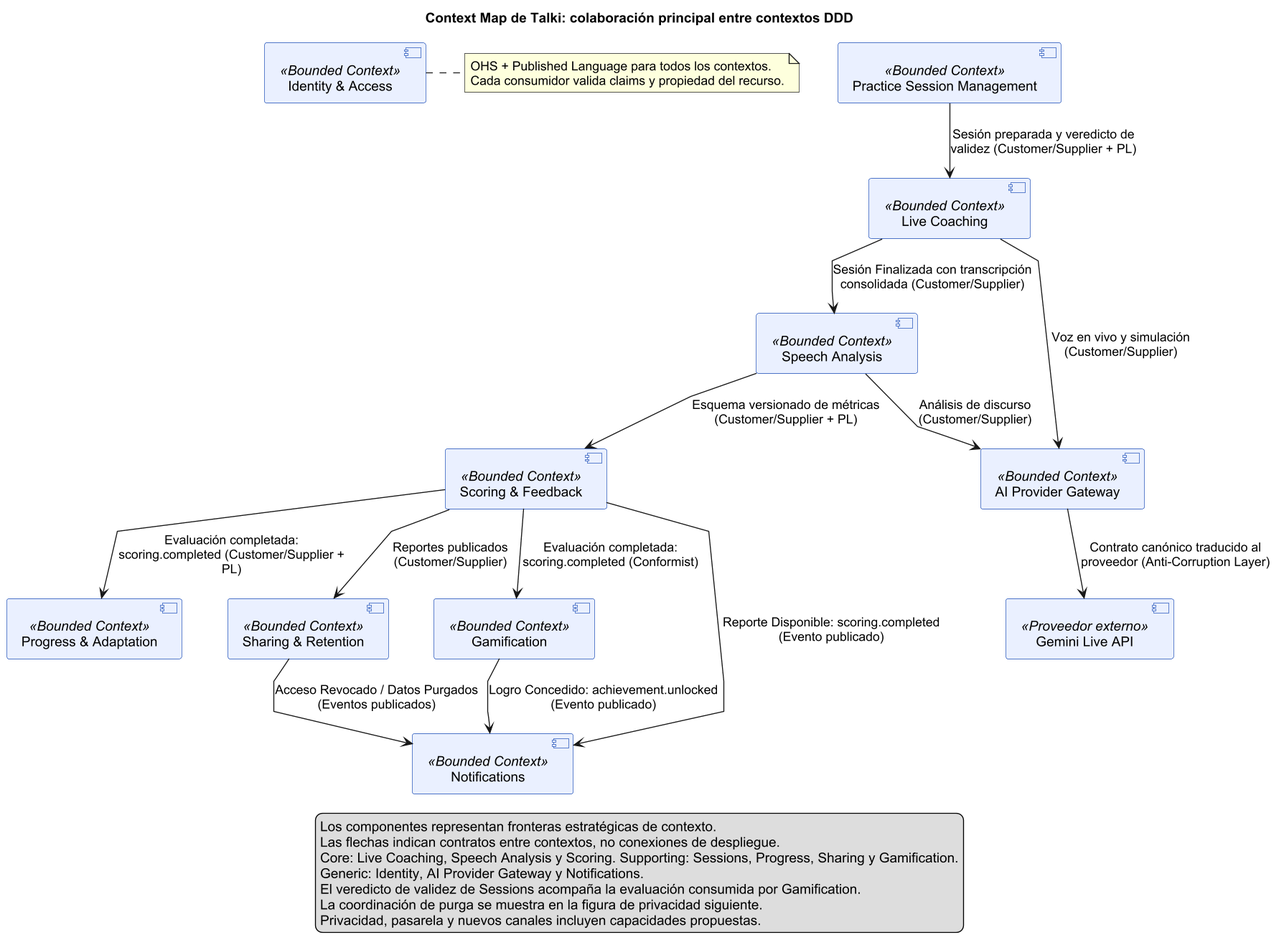
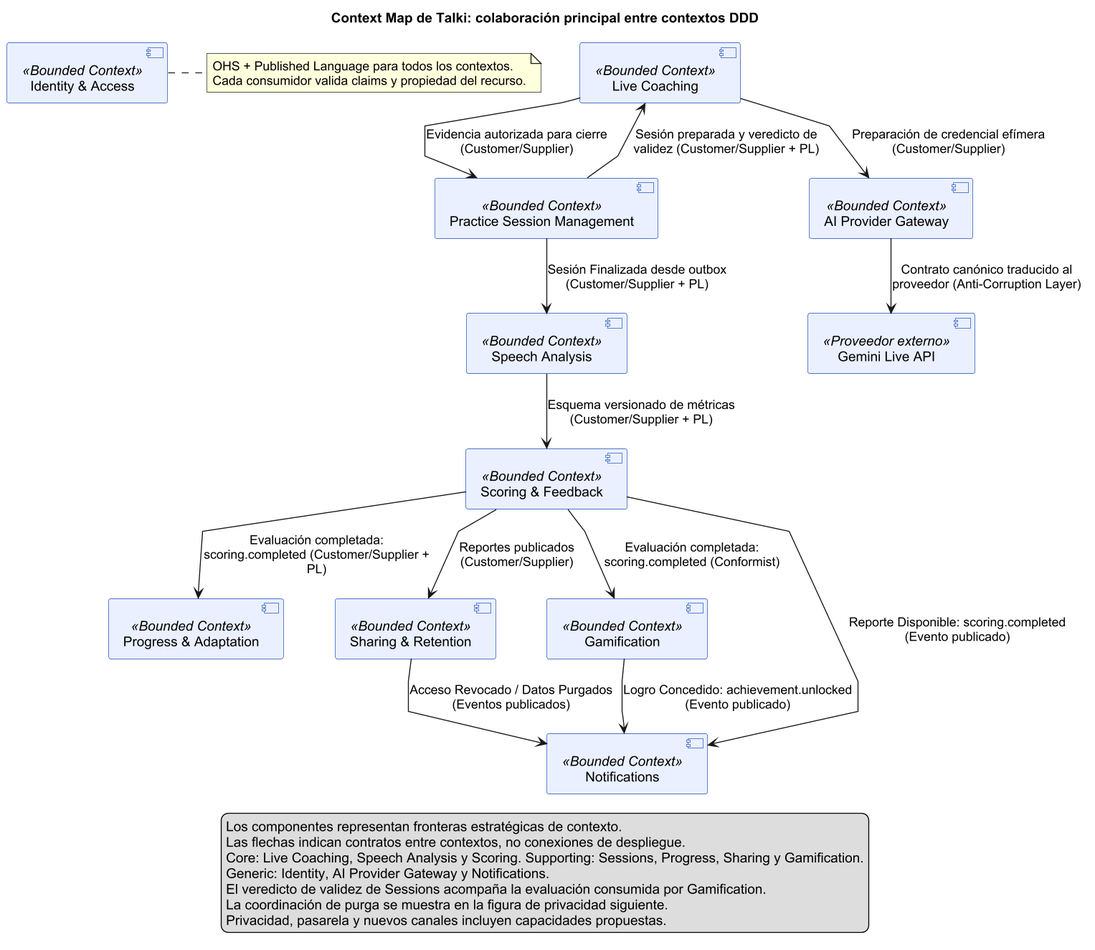
docs(architecture): alinea contextos, cierre y privacidad con el diseño táctico
Corrección documental y de artefactos del diseño objetivo del TP.

Edición y consolidación: Alejandro Daniel Oroncoy Almeyda.

diff --git a/README.md b/README.md
@@ -1676,7 +1676,7 @@ El equipo partió de los momentos de mayor valor, obtener feedback del ensayo y 
 
 #### Fase 2: Comandos, actores, políticas y sistemas externos
 
-Sobre los eventos, el equipo agregó los comandos que los originan, los actores que los emiten y las políticas que reaccionan en cadena. Esta fase hizo visible el contraste entre dos mundos que conviven en Talki: el **mundo síncrono en vivo** (comandos del estudiante que producen señales de coaching con restricción de latencia) y el **mundo asíncrono posterior** (cadena de políticas que transforma `Sesión Finalizada` en `Reporte Disponible`). También se marcaron los sistemas externos: Gemini Live API alimenta tanto la conversación en vivo como parte del procesamiento posterior, siempre detrás de un adaptador.
+Sobre los eventos, el equipo agregó los comandos que los originan, los actores que los emiten y las políticas que reaccionan en cadena. Esta fase hizo visible el contraste entre dos mundos que conviven en Talki: el **mundo síncrono en vivo** (comandos del estudiante que producen señales de coaching con restricción de latencia) y el **mundo asíncrono posterior** (cadena de políticas que transforma `Sesión Finalizada` en `Reporte Disponible`). También se marcaron los sistemas externos: Gemini Live API sostiene la conversación y la transcripción en vivo. El procesamiento posterior utiliza la evidencia autorizada reunida al cierre; una futura capacidad externa de análisis requerirá ampliar explícitamente el contrato de la pasarela.
 
 #### Fase 3: Eventos pivote y hot spots
 
@@ -1698,7 +1698,7 @@ Las zonas en disputa se registraron como *hot spots* rosados y se resolvieron o 
 | ¿Quién decide si una sesión es válida para puntuar? | La política de validez pertenece al ciclo de sesión; el análisis y la gamificación solo consumen el veredicto. |
 | ¿Dónde vive el consentimiento? | Se registra una vez con la identidad y se propaga como estado verificable; no se consulta en línea en cada captura. |
 | ¿Qué pasa si Gemini Live no responde a mitad de la sesión? | Degradación explícita: conservar estado confirmado, ofrecer cierre seguro o resultado parcial etiquetado (QAS-AVA-01). |
-| ¿Cómo evitamos reportes duplicados por reintentos del bus? | Clave de idempotencia `session_id + analysis_version` en todos los consumidores (ADD-05). |
+| ¿Cómo evitamos reportes duplicados por reintentos del bus? | Cada consumidor registra eventId. Analysis usa sesión/versión de análisis; Scoring añade versión de rúbrica; progreso conserva versiones y gamificación cuenta una sola contribución por sesión (ADD-05). |
 
 ![Fase 3 de EventStorming: eventos pivote marcados y hot spots discutidos sobre el tablero](assets/images/eventstorming/es-02-pivotal-events-hotspots.png)
 
@@ -1760,13 +1760,13 @@ Para visualizar cómo deben colaborar los bounded contexts, el equipo aplicó **
 | 4 | Estudiante | Inicia la práctica | Sesión activa | Practice Session Management → Live Coaching |
 | 5 | Live Coaching | Transcribe en vivo y emite señales de ritmo, volumen y pausas | Transcripción incremental, señales | Live Coaching (con AI Provider Gateway) |
 | 6 | Estudiante | Finaliza y confirma | Sesión finalizada | Practice Session Management |
-| 7 | Live Coaching | Publica `Sesión Finalizada` con la transcripción consolidada | Evento de cierre | Live Coaching → Speech Analysis |
+| 7 | Practice Session Management | Confirma la evidencia recibida de Live Coaching y publica `Sesión Finalizada` | Evento de cierre y veredicto de validez | Practice Session Management → Speech Analysis |
 | 8 | Speech Analysis | Calcula métricas (muletillas, silencios, volumen, vocabulario) | Métricas de discurso | Speech Analysis |
 | 9 | Scoring & Feedback | Genera puntuación, sugerencias priorizadas y explicación por segmento | Reporte | Scoring & Feedback |
 | 10 | Progress & Adaptation | Actualiza progreso y compara con sesiones previas | Panel de progreso | Progress & Adaptation |
 | 11 | Estudiante | Consulta el reporte y elige una acción de mejora | Reporte, plan de acción | Scoring & Feedback (reporte publicado) |
 
-![Domain Storytelling DS-01: colaboración de bounded contexts en la primera práctica guiada](assets/images/domain-storytelling/ds-01-primera-practica.png)
+![Domain Storytelling DS-01: colaboración de bounded contexts en la primera práctica guiada](assets/diagrams/c4/practice-story-sequence.png)
 
 #### DS-02: Simulación contextualizada (segmento 2: Rodrigo)
 
@@ -1777,12 +1777,12 @@ Para visualizar cómo deben colaborar los bounded contexts, el equipo aplicó **
 | 3 | Live Coaching | Solicita la contextualización del simulador | Configuración de simulación | Live Coaching → AI Provider Gateway |
 | 4 | AI Provider Gateway | Traduce el contrato canónico al proveedor y contextualiza con material autorizado | Sesión de simulación con Gemini Live | AI Provider Gateway (ACL hacia Gemini) |
 | 5 | Estudiante | Responde preguntas y repreguntas por voz | Turnos de conversación | Live Coaching |
-| 6 | Live Coaching | Mantiene turnos, tiempos y métricas; cierra la simulación | Transcripción consolidada | Live Coaching |
+| 6 | Live Coaching | Reúne la evidencia autorizada y solicita a Sessions confirmar el cierre | Transcripción consolidada, cierre y veredicto de validez | Live Coaching → Practice Session Management |
 | 7 | Speech Analysis | Evalúa claridad de respuestas con el contexto autorizado | Métricas y cobertura temática | Speech Analysis |
 | 8 | Scoring & Feedback | Genera reporte por competencia con evidencia trazable | Reporte avanzado | Scoring & Feedback |
 | 9 | Notifications | Notifica que el reporte está disponible | Notificación | Notifications |
 
-![Domain Storytelling DS-02: simulación contextualizada con material autorizado](assets/images/domain-storytelling/ds-02-simulacion-contextualizada.png)
+![Domain Storytelling DS-02: simulación contextualizada con material autorizado](assets/diagrams/c4/contextual-story-sequence.png)
 
 #### DS-03: Compartir y revocar un reporte (colaboración con tutor)
 
@@ -1794,12 +1794,12 @@ Para visualizar cómo deben colaborar los bounded contexts, el equipo aplicó **
 | 4 | Estudiante | Revoca el acceso | Orden de revocación | Sharing & Retention |
 | 5 | Sharing & Retention | Invalida el enlace de inmediato y publica `Acceso Revocado` | Evento de revocación | Sharing & Retention → Notifications |
 | 6 | Estudiante | Solicita eliminar una sesión | Orden de eliminación | Sharing & Retention |
-| 7 | Sharing & Retention | Propaga la eliminación lógica a los contextos dueños de los datos | Órdenes de purga | Sharing & Retention → Practice Session Management / Scoring & Feedback / Progress & Adaptation / Gamification |
+| 7 | Sharing & Retention | Confirma el bloqueo en Sessions y después solicita la purga de los datos | Bloqueo de acceso, órdenes y confirmaciones de purga | Sessions, Speech Analysis, Scoring, Progress, Gamification y Notifications |
 | 8 | Notifications | Informa al usuario el resultado de la acción | Notificación | Notifications |
 
 ![Secuencia de colaboración DS-03: compartición temporal, revocación y eliminación bajo control del propietario](assets/diagrams/c4/privacy-story-sequence.png)
 
-Los tres flujos confirmaron las fronteras: el material de contexto viaja de Practice Session Management hacia la pasarela sin que Live Coaching conozca su formato interno y el consentimiento actúa como compuerta previa a la captura. Sharing & Retention invalida el permiso antes de responder a la revocación; después comunica el cambio por eventos a los demás contextos, manteniendo el bloqueo de nuevas consultas independiente de la entrega de avisos.
+Los tres flujos confirmaron las fronteras: Sessions entrega a Live Coaching un resumen del material autorizado; Live incorpora ese resumen en las instrucciones de preparación enviadas a la pasarela y el consentimiento actúa como compuerta previa a la captura. Sharing & Retention invalida el permiso antes de responder a la revocación; después comunica el cambio por eventos a los demás contextos, manteniendo el bloqueo de nuevas consultas independiente de la entrega de avisos.
 
 ### 4.2.4. Bounded Context Canvases
 
@@ -1813,10 +1813,10 @@ Cada canvas se elaboró siguiendo un proceso iterativo con seis pasos: (1) **Con
 | Propósito | Sostener la interacción por voz en tiempo cercano al real: capturar audio, transcribir incrementalmente, conducir simulaciones y emitir señales de coaching sin interrumpir el discurso. |
 | Lenguaje ubicuo | Señal de coaching, transcripción incremental, turno de conversación, repregunta, fragmento de audio, canal en vivo. |
 | Capacidades clave | Gestionar el canal en vivo (WebSocket); transcribir incrementalmente; generar señales de ritmo/volumen/pausas; conducir la simulación con turnos y tiempos; consolidar la transcripción al cierre. |
-| Eventos publicados | `Grabación Iniciada`, `Transcripción Incrementada`, `Señal de Coaching Emitida`, `Sesión Finalizada` (con transcripción consolidada). |
+| Hechos producidos | `Grabación Iniciada`, `Transcripción Incrementada` y `Señal de Coaching Emitida` durante el recorrido. Live entrega la evidencia de cierre a Sessions; Sessions publica `Sesión Finalizada` después de confirmarla. |
 | Eventos consumidos | `Sesión Preparada` (Practice Session Management), `Consentimiento Otorgado` (Identity & Access). |
 | Reglas de negocio | Ninguna captura sin consentimiento válido y prueba de audio; las señales pueden silenciarse pero nunca bloquean la captura; la finalización ocurre una sola vez por sesión. |
-| Dependencias | Aguas arriba: Practice Session Management (Customer/Supplier), Identity & Access (Conformist). Aguas abajo: Speech Analysis (publica el cierre). Hacia AI Provider Gateway: Customer/Supplier. |
+| Dependencias | Aguas arriba: Practice Session Management (Customer/Supplier), Identity & Access (Conformist). Entrega evidencia a Practice Session Management para el cierre durable. Hacia AI Provider Gateway: Customer/Supplier para preparar la credencial. |
 | Capas de capacidades | Núcleo de tiempo real (canal, señales); soporte de conversación (simulación); adaptación (pasarela de IA). |
 | Crítica de diseño | Se evaluó separar "captura" y "conversación de simulación"; se rechazó para el piloto por compartir restricciones de latencia y equipo; se documenta como posible partición futura si escala la concurrencia. |
 
@@ -1825,13 +1825,13 @@ Cada canvas se elaboró siguiendo un proceso iterativo con seis pasos: (1) **Con
 | Sección | Contenido |
 |---|---|
 | Clasificación estratégica | Core domain. Núcleo del valor de conocimiento: convertir el discurso en métricas confiables. |
-| Propósito | Procesar la transcripción consolidada y producir métricas de fluidez, claridad, volumen, vocabulario y confianza, con detección de muletillas, manejo de silencios y palabras clave. |
+| Propósito | Procesar la transcripción consolidada y la evidencia acústica/contextual disponible. Producir métricas y hallazgos de fluidez, claridad, volumen y vocabulario; no inferir volumen o confianza solo del texto ni generar dimensiones sin soporte. |
 | Lenguaje ubicuo | Métrica de discurso, muletilla, proporción de silencios, estabilidad de volumen, riqueza léxica, versión de análisis, evidencia. |
 | Capacidades clave | Iniciar y procesar el análisis; calcular métricas dimensionales; identificar muletillas y palabras clave; consultar estado y reintentar (US37); versionar cada ejecución de análisis. |
 | Eventos publicados | `Análisis Iniciado`, `Métricas de Discurso Calculadas`, `Análisis Fallido`. |
-| Eventos consumidos | `Sesión Finalizada` (Live Coaching), material autorizado (Practice Session Management). |
+| Eventos consumidos | `Sesión Finalizada` (Practice Session Management), con evidencia y contexto autorizados. |
 | Reglas de negocio | Un único resultado por `session_id + analysis_version` (idempotencia, ADD-05); una sesión sin evidencia suficiente se marca como tal sin fabricar conclusiones; el procesamiento usa solo material autorizado. |
-| Dependencias | Aguas arriba: Live Coaching (Customer/Supplier vía lenguaje publicado). Hacia AI Provider Gateway: Customer/Supplier. Aguas abajo: Scoring & Feedback (recibe las métricas y conserva el reporte). Speech Analysis no conserva una copia de negocio del reporte. |
+| Dependencias | Aguas arriba: Practice Session Management (Customer/Supplier vía lenguaje publicado). Aguas abajo: Scoring & Feedback (recibe las métricas y conserva el reporte). Speech Analysis no conserva una copia de negocio del reporte. |
 | Capas de capacidades | Ingesta y consolidación; enriquecimiento lingüístico y acústico; cómputo de métricas versionadas. |
 | Crítica de diseño | Se evaluó un Shared Kernel de definiciones de métricas con Scoring & Feedback; se rechazó en favor de un lenguaje publicado versionado (C-09) para preservar autonomía de despliegue. |
 
@@ -1857,7 +1857,7 @@ Cada canvas se elaboró siguiendo un proceso iterativo con seis pasos: (1) **Con
 | Propósito | Crear, configurar, validar y cerrar sesiones de práctica; administrar el material de contexto y declarar la validez de cada sesión. |
 | Lenguaje ubicuo | Borrador de sesión, modo de práctica (pitch, exposición, entrevista, sustentación), duración objetivo, área de enfoque, material autorizado, sesión válida. |
 | Capacidades clave | Crear borrador y configurar sesión; validar micrófono y consentimiento previos (US29); recibir y autorizar material (US30); gestionar estados (pausa, reanudación, recuperación US34); declarar validez para puntuación. |
-| Eventos publicados | `Borrador de Sesión Creado`, `Material de Contexto Cargado`, `Sesión Preparada`, `Sesión Recuperada`, veredicto de validez. |
+| Eventos publicados | `Borrador de Sesión Creado`, `Material de Contexto Cargado`, `Sesión Preparada`, `Sesión Recuperada`, `Sesión Finalizada` y veredicto de validez. |
 | Eventos consumidos | `Cuenta Registrada` / `Consentimiento Otorgado` (Identity & Access). |
 | Reglas de negocio | No se inicia sin consentimiento y prueba de audio; el borrador es cancelable; la validez se declara una vez y los consumidores la respetan (hot spot resuelto en 4.2.1). |
 | Dependencias | Aguas arriba: Identity & Access (Conformist). Aguas abajo: Live Coaching, Speech Analysis y Gamification (Customer/Supplier: consumen sus eventos). |
@@ -1924,13 +1924,13 @@ Cada canvas se elaboró siguiendo un proceso iterativo con seis pasos: (1) **Con
 | Sección | Contenido |
 |---|---|
 | Clasificación estratégica | Generic subdomain. Capacidad técnica que aísla al dominio del proveedor externo (C-01). |
-| Propósito | Ofrecer un contrato canónico de capacidades de IA (voz en vivo, análisis, contextualización) y traducirlo a proveedores concretos, iniciando por Gemini Live. |
+| Propósito | Preparar credenciales efímeras e instrucciones autorizadas mediante un contrato independiente del proveedor, iniciando por Gemini Live. La voz viaja directamente entre cliente y proveedor; la pasarela no transporta audio ni ejecuta el análisis posterior. |
 | Lenguaje ubicuo | Contrato canónico, capacidad declarada, adaptador de proveedor, Anti-Corruption Layer. |
 | Capacidades clave | Negociar capacidades del proveedor; traducir contratos; medir latencia y disponibilidad por proveedor; conmutar proveedor por configuración. |
 | Eventos publicados | Hechos de operación (proveedor degradado, disponible) para observabilidad. |
-| Eventos consumidos | Solicitudes de Live Coaching y Speech Analysis. |
+| Peticiones recibidas | Preparación interna de credenciales desde Live Coaching. |
 | Reglas de negocio | Solo el material autorizado sale hacia el proveedor; las capacidades exclusivas de un proveedor se declaran opcionales y no contaminan el contrato común (QAS-INT-01). |
-| Dependencias | Aguas arriba: Live Coaching y Speech Analysis (Customer/Supplier sobre su lenguaje publicado). Aguas abajo: Gemini Live API mediante Anti-Corruption Layer. |
+| Dependencias | Colabora con Live Coaching mediante un contrato interno de preparación. Aguas abajo: Gemini Live API mediante Anti-Corruption Layer. |
 | Crítica de diseño | Se evaluó que cada contexto integre al proveedor por su cuenta; se rechazó porque duplicaría traducción, límites de consumo y controles de privacidad. |
 
 #### 10. Notifications (Notificaciones)
@@ -1977,17 +1977,17 @@ El equipo evaluó explícitamente un **Shared Kernel** de definiciones de métri
 |---|---|---|---|---|
 | Identity & Access | Todos los contextos | Open Host Service + Published Language; downstream **Conformist** | Tokens firmados y claims de consentimiento; API de validación estable | Ningún contexto reinventa identidad ni consentimiento; adoptan el modelo de claims tal cual. |
 | Practice Session Management | Live Coaching, Speech Analysis, Gamification | Customer/Supplier + Published Language | Eventos de ciclo de vida y veredicto de validez versionados | El ciclo de sesión alimenta al resto; los consumidores se adaptan al contrato publicado. |
-| Live Coaching | Speech Analysis | Customer/Supplier | Evento `Sesión Finalizada` con transcripción consolidada versionada | El análisis consume el cierre; el formato de transcripción pertenece a quien la produce. |
+| Live Coaching | Practice Session Management | Customer/Supplier | Evidencia autorizada y petición idempotente de cierre | Sessions confirma el cambio y su outbox antes de entregar el evento al análisis. |
 | Speech Analysis | Scoring & Feedback | Customer/Supplier + Published Language | Esquema versionado de métricas de discurso | Consistencia entre versiones sin Shared Kernel (C-09). |
 | Scoring & Feedback | Progress & Adaptation, Gamification, Sharing & Retention | Customer/Supplier + Published Language | Evaluación completada (`scoring.completed`) y consulta del reporte publicado | Progreso y gamificación reciben la evaluación; compartición referencia el reporte conservado por Scoring. |
-| Live Coaching, Speech Analysis | AI Provider Gateway | Customer/Supplier sobre Open Host Service | Contrato canónico de capacidades de IA | Ambos contextos consumen el mismo contrato; la conmutación de proveedor es transparente. |
+| AI Provider Gateway | Live Coaching | Open Host Service + Published Language, relación Customer/Supplier | Preparación de credencial, capacidad del modo y vigencia | La pasarela ofrece el contrato estable; Live es su consumidor y mantiene separada la voz WSS del cierre de Sessions. |
 | AI Provider Gateway | Gemini Live API (externo) | **Anti-Corruption Layer** | Adaptador de proveedor + negociación de capacidades | Impide que el modelo del proveedor contamine el lenguaje del dominio (ADD-06, QAS-INT-01). |
 | Practice Session Management, Scoring & Feedback | Gamification | **Conformist** | Veredicto de validez y evaluación completada | La gamificación respeta la validez de la sesión y calcula rachas/logros a partir de la evaluación recibida. |
 | Scoring & Feedback | Sharing & Retention | Customer/Supplier | Consulta de reportes publicados | La compartición no duplica reportes; referencia los existentes. |
-| Sharing & Retention | Practice Session Management, Scoring & Feedback, Progress & Adaptation, Gamification | Customer/Supplier + Published Language | Órdenes de purga y confirmaciones | La eliminación de evidencia, evaluaciones, progreso y rachas respeta la propiedad de datos de cada contexto. |
+| Sharing & Retention | Practice Session Management, Speech Analysis, Scoring & Feedback, Progress & Adaptation, Gamification, Notifications | Customer/Supplier + Published Language | Órdenes de purga y confirmaciones | La eliminación de evidencia, evaluaciones, progreso y rachas respeta la propiedad de datos de cada contexto. |
 | Múltiples contextos | Notifications | Colaboración por eventos (Published Language) | Eventos de dominio versionados en el bus | Notifications no aparece como dependencia síncrona de nadie. |
 
-![Context map final de Talki con patrones DDD entre bounded contexts](assets/images/context-mapping/context-map.png)
+![Context map final de Talki con patrones DDD entre bounded contexts](assets/diagrams/c4/context-map.png)
 
 ![Coordinación de privacidad y confirmaciones de purga entre contextos](assets/diagrams/c4/privacy-context-map.png)
 
@@ -1995,7 +1995,7 @@ Los nombres de negocio de los canvases se concretan en los contratos técnicos: 
 
 #### Conclusión del context mapping
 
-El mapa resultante protege tres propiedades: (1) el **core** (Live Coaching, Speech Analysis, Scoring & Feedback) solo depende de contratos publicados y de una pasarela con Anti-Corruption Layer, nunca de detalles de proveedores ni de contextos genéricos; (2) la **privacidad** opera por eventos, de modo que revocar o eliminar no depende de la disponibilidad de otros contextos; y (3) la **evolución**, que comprende nuevos modos, rúbricas o proveedores, queda confinada a un contexto por tipo de cambio. Este mapa es el insumo directo de los diagramas C4 de la sección 4.3 y de la descomposición táctica del capítulo V.
+El mapa resultante protege tres propiedades: (1) el **core** (Live Coaching, Speech Analysis, Scoring & Feedback) solo depende de contratos publicados y de una pasarela con Anti-Corruption Layer, nunca de detalles de proveedores ni de contextos genéricos; (2) la **privacidad** revoca permisos localmente y exige confirmar el bloqueo en Sessions antes de aceptar una eliminación; la purga posterior se coordina por eventos y confirmaciones; y (3) la **evolución**, que comprende nuevos modos, rúbricas o proveedores, queda confinada a un contexto por tipo de cambio. Este mapa es el insumo directo de los diagramas C4 de la sección 4.3 y de la descomposición táctica del capítulo V.
 
 ## 4.3. Software Architecture
 
@@ -2015,24 +2015,24 @@ La frontera de Talki agrupa las capacidades de práctica, feedback, progreso y c
 
 ### 4.3.3. Container Level Diagrams
 
-El cliente web ofrece el recorrido de preparación y revisión; el cliente Flutter es una ampliación móvil. La arquitectura objetivo propone un API Gateway/BFF para enrutar operaciones y aplicar políticas comunes. Los servicios se organizan por responsabilidad de contexto: Identity & Access, Practice Session Management, Live Coaching, Speech Analysis, Scoring & Feedback, Progress & Adaptation, Sharing & Retention, Gamification, AI Provider Gateway y Notifications.
+El cliente web ofrece el recorrido de preparación y revisión; el cliente Flutter es una ampliación móvil. Para la aplicación de este curso se seleccionan Angular, TypeScript y Angular Material, conforme al enunciado; la landing utiliza HTML5, CSS3 y JavaScript. Las pantallas de Talki conservan su identidad visual y son referencias UX, no evidencia de que la implementación Angular esté terminada. La adopción móvil cross-platform con Flutter es una propuesta que deberá justificar cobertura y distribución antes de implementar. La arquitectura objetivo propone un API Gateway/BFF para enrutar operaciones y aplicar políticas comunes. Los servicios se organizan por responsabilidad de contexto: Identity & Access, Practice Session Management, Live Coaching, Speech Analysis, Scoring & Feedback, Progress & Adaptation, Sharing & Retention, Gamification, AI Provider Gateway y Notifications.
 
-RabbitMQ conecta el procesamiento asíncrono: Live Coaching publica `session.live.finalized`, Speech Analysis produce `fillers.analyzed` y Scoring & Feedback publica `scoring.completed` después de conservar la evaluación. Progress y Gamification consumen ese resultado; Notifications recibe eventos de evaluación y logro. El broker incorpora confirmaciones, reintentos y una cola de fallos como requisitos del diseño. La voz sigue el canal cliente–Gemini Live por WSS, evitando presentar el broker como transporte de audio.
+RabbitMQ conecta el procesamiento asíncrono: Practice Session Management publica `session.live.finalized` después de confirmar el cierre recibido de Live Coaching, Speech Analysis produce `fillers.analyzed` y Scoring & Feedback publica `scoring.completed` después de conservar la evaluación. Progress y Gamification consumen ese resultado; Notifications recibe eventos de evaluación y logro. El broker incorpora confirmaciones, reintentos y una cola de fallos como requisitos del diseño. La voz sigue el canal cliente–Gemini Live por WSS, evitando presentar el broker como transporte de audio.
 
 ![C4 Container Diagram de Talki](assets/diagrams/c4/containers.png)
 
 | Contenedor / contexto | Responsabilidad | Datos propios | Sección táctica |
 | --- | --- | --- | --- |
 | Live Coaching | Selección de modo, credencial temporal y cierre de conversación. | Sin base de negocio propia. | 5.1 |
-| Speech Analysis Worker | Detección de muletillas y producción de métricas. | Sin copia propia del reporte. | 5.2 |
-| Scoring & Feedback Worker | Evaluación y consulta de resultados; consulta pública ampliada. | Evaluaciones y versiones. | 5.3 |
-| Practice Session Management | Preparación, ciclo de vida y evidencia de la práctica. | Sesiones, feedback y proyección local de identidad. | 5.4 |
-| Progress & Adaptation | Resumen y comparación de evolución; comparación ampliada. | Progreso y métricas propuestas por sesión. | 5.5 |
+| Speech Analysis Worker | Análisis de evidencia lingüística, acústica y contextual disponible; estado y reintento. | Jobs y salida durable; sin copia del reporte de negocio. | 5.2 |
+| Scoring & Feedback Worker | Evaluación y consulta de resultados por el propietario o mediante acceso temporal autorizado. | Evaluaciones y versiones. | 5.3 |
+| Practice Session Management | Preparación, ciclo de vida y evidencia de la práctica. | Sesiones, configuración, material autorizado, feedback y outbox de cierre. | 5.4 |
+| Progress & Adaptation | Resumen, comparación y planes de mejora. | Progreso, métricas por sesión, planes y ejercicios. | 5.5 |
 | Sharing & Retention, propuesto | Acceso temporal, exportación y eliminación coordinada. | Permisos, solicitudes de purga y confirmaciones. | 5.6 |
-| Gamification | Rachas y logros por práctica válida. | Rachas y registro propuesto de logros. | 5.7 |
-| Identity & Access | Cuenta, credenciales, perfil y consentimiento ampliado. | Usuarios y registros de acceso/consentimiento propuestos. | 5.8 |
+| Gamification | Rachas y logros por práctica válida. | Rachas, logros versionados y contribuciones únicas. | 5.7 |
+| Identity & Access | Cuenta, credenciales, perfil y consentimiento. | Usuarios, tokens, recuperación y consentimiento versionado. | 5.8 |
 | AI Provider Gateway, propuesto | Contrato de integración y aislamiento del proveedor. | Sin base de material de práctica. | 5.9 |
-| Notifications | Consumo de eventos y entrega propuesta de avisos. | Sin base de negocio propia. | 5.10 |
+| Notifications | Consumo de eventos y entrega de avisos. | Avisos, intentos y preferencias. | 5.10 |
 
 Los almacenes de la figura agrupan infraestructura PostgreSQL, no propiedad compartida de tablas. Cada contexto accede únicamente a su esquema y comunica cambios mediante contratos o eventos. Las implementaciones disponibles agrupan algunas responsabilidades en servicios existentes; la separación del diagrama es la arquitectura objetivo de ADD, que deberá concretarse y verificarse en implementación. La pasarela de IA, Sharing, la entrega de avisos y las ampliaciones de consulta siguen siendo propuestas.
 
